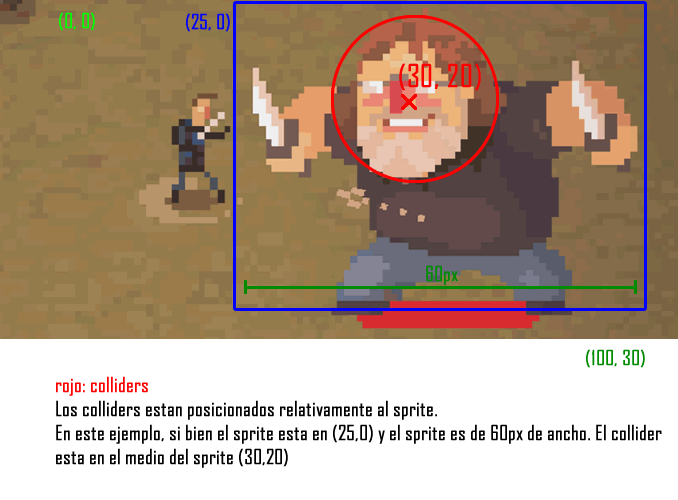
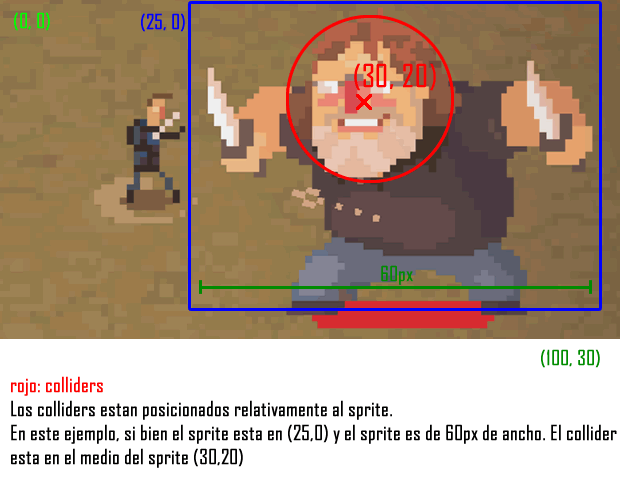
agregando illustraciones al readme.md

diff --git a/readme.md b/readme.md
@@ -88,3 +88,12 @@ Se usta usando ECMA 2016/2017... lo ultimo que soporte chrome, para cuando avanc
 
 # [Ideas, Dudas, Sugerencias y Conversasion](https://github.com/eugenioenko/gengine/issues/1)
 [aqui](https://github.com/eugenioenko/gengine/issues/1) o en algun otro lugar que sugieran.
+
+## Referencias
+
+Algunas illustraciones con el modelo de sprites y colliders
+
+![sprites y colliders ](https://eugenioenko.github.io/gengine/images/sprites-colliders.png)
+
+Position relativa de colliders respecto a sprites
+![sprites y colliders ](https://eugenioenko.github.io/gengine/images/colliders-relative.png)
